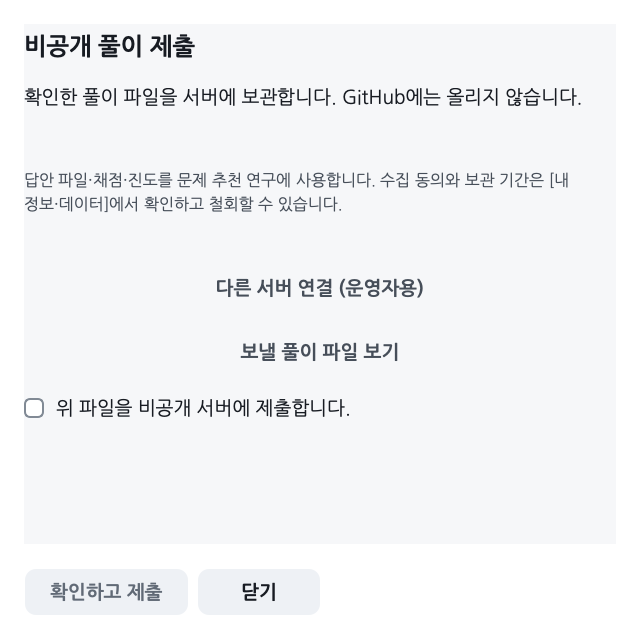
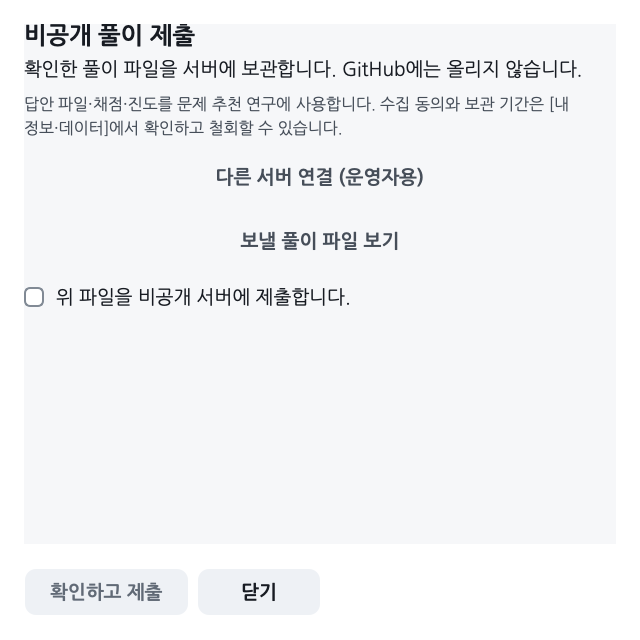
fix(ui): 풀이 제출 창의 제목과 설명 간격 유지

diff --git a/tests/test_gui_global_consistency.py b/tests/test_gui_global_consistency.py
@@ -5,7 +5,7 @@ from unittest import mock
 
 from tests import guikit, test_gui_hub, test_learning_privacy
 from PyQt6.QtCore import QPoint
-from PyQt6.QtWidgets import QBoxLayout, QScrollArea
+from PyQt6.QtWidgets import QBoxLayout, QScrollArea, QWidget
 from aiprep import privacy
 from gui import theme
 from gui.ai_data import LearningDataDialog
@@ -151,6 +151,16 @@ class GlobalConsistencyTest(test_gui_hub.HubTest):
         self.assertTrue(dialog.confirm_private.isChecked())
         self.assertIn("다른 작업", dialog.message.text())
         self.assertIn("r01/quiz.py", dialog.files.toPlainText())
+
+    def test_submission_title_and_description_keep_the_common_gap_in_a_large_dialog(self):
+        win, dialog = self.setup_submission()
+        for step in ("normal", "larger"):
+            win.set_text(step)
+            for selected in ("light", "dark"):
+                theme.set_mode(selected)
+                guikit.pump()
+                head = next(widget for widget in dialog.findChildren(QWidget) if widget.property("spacing_role") == "title_description")
+                self.assertEqual(theme.GAP["title_description"], head.description.y() - head.title.geometry().bottom() - 1)
 
     def test_empty_submission_explains_why_confirmation_is_disabled(self):
         win, dialog = self.setup_submission(empty=True)

diff --git a/gui/submission_setup.py b/gui/submission_setup.py
@@ -59,6 +59,7 @@ class SubmissionSetup(QDialog):
         self.connect_button.setEnabled(False)
         self.confirm_private.toggled.connect(lambda checked: self.connect_button.setEnabled(checked and self.confirm_private.isEnabled()))
         self.connect_button.clicked.connect(self.connect_and_submit)
+        body.addStretch(1)
         outer.addWidget(kit.scroll(content), 1)
         footer = QWidget()
         row = kit.FlowLayout(footer, spacing=theme.GAP["detail"])
